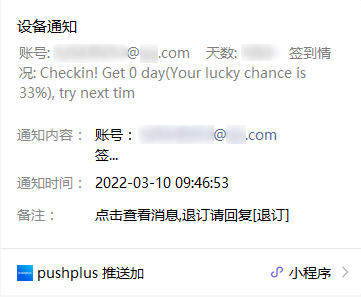
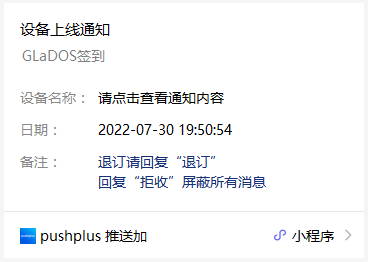
doc: 更新文档

diff --git a/README.md b/README.md
@@ -1,7 +1,5 @@
 # GLaDOS 每日签到💮
 
-**GLaDOS 使用了 CloudFlare，目前该项目无法正常签到，正在施工。有需要可以查看 [#34](https://github.com/DullSword/GLaDOS-CheckIn/issues/34) 的解决方案。**
-
 - 基于 [Github Actions](https://github.com/features/actions)
 - 每天北京时间 **9点30分**（[UTC时间](https://datetime360.com/cn/utc-beijing-time/) 1点30分）进行自动签到
   - 实际上通常会延迟，但不会太久，庆幸的是大多情况下我们并不关心是否准时
@@ -98,6 +96,8 @@
 
 ![run_result](imgs/run_result.png)
 
+**注意：这里的成功只是指工作流执行成功，这是基础前提.**
+
 ![push](imgs/push.png)
 
 ![push_detail](imgs/push_detail.png)
@@ -113,6 +113,13 @@
    ![modify_schedule](imgs/modify_schedule.png)
 
 ## 更新日志
+
+### [3.0.0] - 2022-07-30
+
+#### 变更
+
+- 绕过 CloudFlare
+  - [#34](https://github.com/DullSword/GLaDOS-CheckIn/issues/34)
 
 ### [2.0.1] - 2022-05-10
 
